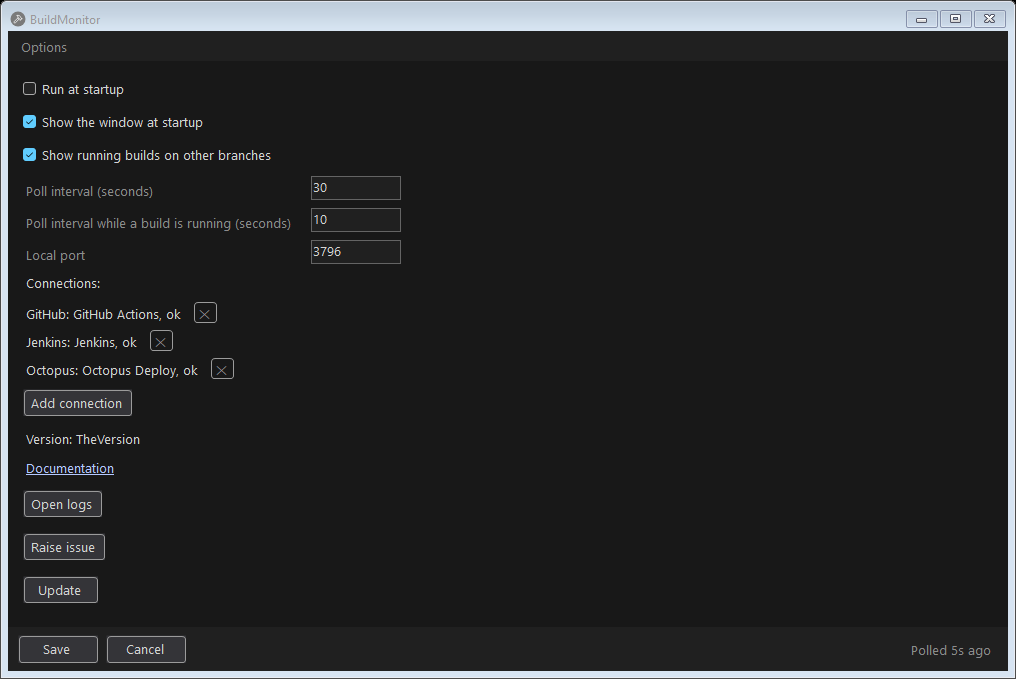
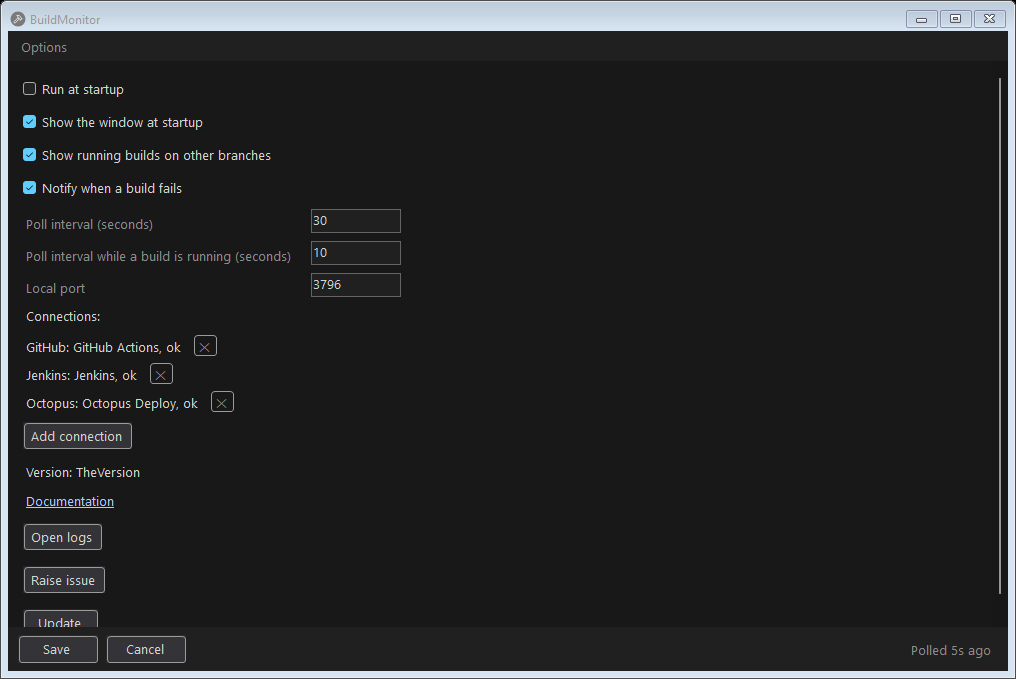
Failure notifications, OAuth callback port option, live provider tests, native screenshots in docs

Changed region(s): [[0.0, 0.2474, 0.3967, 0.9278]]

diff --git a/src/BuildMonitor.Tests/Providers/Live/LiveProviderTests.cs b/src/BuildMonitor.Tests/Providers/Live/LiveProviderTests.cs
@@ -1,0 +1,73 @@
+/// <summary>
+/// Runs a provider against its real service. Never part of a normal run: each test is explicit
+/// and reads its credential from the environment, so a developer with a token can check the
+/// wire format still matches without any of it reaching the repository.
+/// <para>
+/// Variables: <c>BUILDMONITOR_{PROVIDER}_TOKEN</c>, optionally <c>_SERVER</c>, <c>_USER</c>, and
+/// <c>_SCOPE_{ID}</c> for each scope field the provider declares. PROVIDER is the descriptor id
+/// upper cased with hyphens as underscores, so Azure DevOps reads
+/// <c>BUILDMONITOR_AZURE_DEVOPS_TOKEN</c>.
+/// </para>
+/// </summary>
+[Explicit]
+public class LiveProviderTests
+{
+    [Test]
+    [Arguments("appveyor")]
+    [Arguments("travis")]
+    [Arguments("jenkins")]
+    [Arguments("github")]
+    [Arguments("azure-devops")]
+    [Arguments("teamcity")]
+    [Arguments("gitlab")]
+    [Arguments("gocd")]
+    [Arguments("bitbucket")]
+    [Arguments("octopus")]
+    public async Task DiscoverAndFetch(string providerId)
+    {
+        var prefix = $"BUILDMONITOR_{providerId.ToUpperInvariant().Replace('-', '_')}_";
+        var token = Environment.GetEnvironmentVariable($"{prefix}TOKEN");
+        if (token is null)
+        {
+            Skip.Test($"{prefix}TOKEN is not set.");
+        }
+
+        var descriptor = ProviderDescriptors.Get(providerId);
+        var scope = ImmutableDictionary.CreateBuilder<string, string>();
+        foreach (var field in descriptor.Scopes)
+        {
+            var value = Environment.GetEnvironmentVariable($"{prefix}SCOPE_{field.Id.ToUpperInvariant()}");
+            if (value is not null)
+            {
+                scope[field.Id] = value;
+            }
+        }
+
+        var connection = new Connection
+        {
+            Id = providerId,
+            ProviderId = providerId,
+            Name = descriptor.Name,
+            Server = Environment.GetEnvironmentVariable($"{prefix}SERVER"),
+            User = Environment.GetEnvironmentVariable($"{prefix}USER"),
+            Scope = scope.ToImmutable()
+        };
+        using var handler = new HttpClientHandler();
+        var context = Providers.Context(connection, token, handler);
+        var provider = Providers.Get(providerId);
+
+        var test = await provider.Test(context, Cancel.None);
+        await Assert.That(test.Ok).IsTrue().Because(test.Message);
+
+        var pipelines = await provider.DiscoverPipelines(context, Cancel.None);
+        Console.WriteLine($"{pipelines.Count} pipelines");
+        var builds = await provider.FetchBuilds(context, pipelines, 3, Cancel.None);
+        Console.WriteLine($"{builds.Count} builds");
+        foreach (var build in builds.Take(10))
+        {
+            Console.WriteLine($"  {build.PipelineName} {build.Branch} {build.RunNumberLabel()} {build.Status} {build.BuildUrl}");
+        }
+
+        await Assert.That(pipelines.Count).IsGreaterThan(0);
+    }
+}

diff --git a/src/BuildMonitor.Tests/NotificationTests.cs b/src/BuildMonitor.Tests/NotificationTests.cs
@@ -1,0 +1,56 @@
+public class NotificationTests
+{
+    [Test]
+    public async Task ARunningBuildThatFailsIsAnnounced()
+    {
+        var state = Fixtures.WithBuilds();
+        var builds = Fixtures.GitHubBuilds();
+        var failed = builds.Select(_ => _.RunNumber == "1234" ? _ with { Status = BuildStatus.Failed, Finished = Fixtures.Now } : _).ToImmutableArray();
+        var next = MonitorSession.ApplyPoll(state, Fixtures.GitHub.Id, state.Connection(Fixtures.GitHub.Id)!.Pipelines, failed, Fixtures.Now);
+        await Assert.That(next.Notification).IsEqualTo(new Notification("test.yml failed", "VerifyTests/DiffEngine main #1234"));
+        await Verify(Fixtures.Render(next));
+    }
+
+    [Test]
+    public async Task AnAlreadyFailedBuildIsNotAnnouncedAgain()
+    {
+        var state = Fixtures.WithBuilds();
+        var next = MonitorSession.ApplyPoll(state, Fixtures.GitHub.Id, state.Connection(Fixtures.GitHub.Id)!.Pipelines, Fixtures.GitHubBuilds(), Fixtures.Now);
+        await Assert.That(next.Notification).IsNull();
+    }
+
+    [Test]
+    public async Task TheFirstPollIsSilent()
+    {
+        var state = Fixtures.Connected();
+        var next = MonitorSession.ApplyPoll(state, Fixtures.GitHub.Id, [], Fixtures.GitHubBuilds(), Fixtures.Now);
+        await Assert.That(next.Notification).IsNull();
+    }
+
+    [Test]
+    public async Task SeveralFailuresAreSummarised()
+    {
+        var state = Fixtures.WithBuilds();
+        var failed = Fixtures.GitHubBuilds().Select(_ => _ with { Status = BuildStatus.Failed }).ToImmutableArray();
+        var next = MonitorSession.ApplyPoll(state, Fixtures.GitHub.Id, [], failed, Fixtures.Now);
+        await Assert.That(next.Notification!.Title).IsEqualTo("3 builds failed");
+        await Assert.That(next.Notification.Message).IsEqualTo("test.yml, docs.yml");
+    }
+
+    [Test]
+    public async Task CanBeSwitchedOff()
+    {
+        var state = Fixtures.WithBuilds();
+        state = MonitorSession.ApplySettings(state, state.Settings with { NotifyOnFailure = false });
+        var failed = Fixtures.GitHubBuilds().Select(_ => _ with { Status = BuildStatus.Failed }).ToImmutableArray();
+        var next = MonitorSession.ApplyPoll(state, Fixtures.GitHub.Id, [], failed, Fixtures.Now);
+        await Assert.That(next.Notification).IsNull();
+    }
+
+    [Test]
+    public async Task ClearedAfterShowing()
+    {
+        var state = Fixtures.WithBuilds() with { Notification = new("x", "y") };
+        await Assert.That(MonitorSession.ClearNotification(state).Notification).IsNull();
+    }
+}

diff --git a/src/BuildMonitor.Core/Session/ScreenBuilder.cs b/src/BuildMonitor.Core/Session/ScreenBuilder.cs
@@ -59,7 +59,8 @@ static class ScreenBuilder
             tray,
             state.Columns,
             state.Rows,
-            menu);
+            menu,
+            state.Notification);
     }
 
     static string Header(SessionState state, int pipelines, int failing, int running)
@@ -254,7 +255,8 @@ static class ScreenBuilder
             status,
             tray,
             state.Columns,
-            state.Rows);
+            state.Rows,
+            Notification: state.Notification);
     }
 
     static FormPage OptionsForm(SessionState state)
@@ -265,6 +267,7 @@ static class ScreenBuilder
             new(FormFields.RunAtStartup, FieldKind.Checkbox, "Run at startup", form.Value(FormFields.RunAtStartup)),
             new(FormFields.ShowWindowAtStart, FieldKind.Checkbox, "Show the window at startup", form.Value(FormFields.ShowWindowAtStart)),
             new(FormFields.ShowOtherBranches, FieldKind.Checkbox, "Show running builds on other branches", form.Value(FormFields.ShowOtherBranches)),
+            new(FormFields.NotifyOnFailure, FieldKind.Checkbox, "Notify when a build fails", form.Value(FormFields.NotifyOnFailure)),
             new(FormFields.PollInterval, FieldKind.Number, "Poll interval (seconds)", form.Value(FormFields.PollInterval)),
             new(FormFields.RunningPollInterval, FieldKind.Number, "Poll interval while a build is running (seconds)", form.Value(FormFields.RunningPollInterval)),
             new(FormFields.Port, FieldKind.Number, "Local port", form.Value(FormFields.Port), Hint: "Used by the launcher and the MCP server. Takes effect after a restart."),
@@ -363,6 +366,11 @@ static class ScreenBuilder
         else if (descriptor.CustomClientId)
         {
             fields.Add(new(FormFields.ClientId, FieldKind.Text, "OAuth application id (optional)", form.Value(FormFields.ClientId), Hint: "Only for a self hosted server with its own application"));
+        }
+
+        if (method == AuthMethod.Browser)
+        {
+            fields.Add(new(FormFields.CallbackPort, FieldKind.Number, "Callback port (optional)", form.Value(FormFields.CallbackPort), Hint: "Only when the application was registered with a fixed redirect port"));
         }
 
         if (descriptor.Notes is not null)

diff --git a/src/BuildMonitor.Core/Session/MonitorSession.cs b/src/BuildMonitor.Core/Session/MonitorSession.cs
@@ -183,6 +183,7 @@ static class MonitorSession
         values[FormFields.RunAtStartup] = Flag(settings.RunAtStartup);
         values[FormFields.ShowWindowAtStart] = Flag(settings.ShowWindowAtStart);
         values[FormFields.ShowOtherBranches] = Flag(settings.ShowOtherBranches);
+        values[FormFields.NotifyOnFailure] = Flag(settings.NotifyOnFailure);
         values[FormFields.PollInterval] = settings.PollIntervalSeconds.ToString();
         values[FormFields.RunningPollInterval] = settings.RunningPollIntervalSeconds.ToString();
         values[FormFields.Port] = settings.Port.ToString();
@@ -220,6 +221,7 @@ static class MonitorSession
         values[FormFields.User] = existing?.User ?? "";
         values[FormFields.Token] = "";
         values[FormFields.ClientId] = existing?.ClientId ?? "";
+        values[FormFields.CallbackPort] = existing?.CallbackPort?.ToString() ?? "";
         foreach (var scope in descriptor.Scopes)
         {
             values[FormFields.Scope(scope.Id)] = existing?.ScopeValue(scope.Id) ?? "";
@@ -471,15 +473,26 @@ static class MonitorSession
             state,
             connectionId,
             _ => _ with { Health = ConnectionHealth.Ok, Error = null, RetryAfter = null, LastPolled = now, Pipelines = pipelines });
+        var previous = state.Builds.Where(_ => _.ConnectionId == connectionId).ToImmutableArray();
+        var notification = state.Notification;
+        if (state.Settings.NotifyOnFailure)
+        {
+            notification = FailureDetector.Describe(FailureDetector.NewFailures(previous, builds)) ?? notification;
+        }
+
         return Clamp(next with
         {
             Builds =
             [
                 ..next.Builds.Where(_ => _.ConnectionId != connectionId),
                 ..builds
-            ]
+            ],
+            Notification = notification
         });
     }
+
+    public static SessionState ClearNotification(SessionState state) =>
+        state with { Notification = null };
 
     public static SessionState ApplyMedians(SessionState state, ImmutableDictionary<string, TimeSpan> medians) =>
         state with { Medians = medians };

diff --git a/src/BuildMonitor.Core/Builds/FailureDetector.cs b/src/BuildMonitor.Core/Builds/FailureDetector.cs
@@ -1,0 +1,43 @@
+/// <summary>
+/// Which builds in a poll are failures the user has not been told about. A failure that was
+/// already failed last poll is not news, and neither is anything on a connection's first poll:
+/// the app starting is not the moment to announce every red pipeline.
+/// </summary>
+static class FailureDetector
+{
+    public static ImmutableArray<Build> NewFailures(ImmutableArray<Build> previous, ImmutableArray<Build> next)
+    {
+        if (previous.Length == 0)
+        {
+            return [];
+        }
+
+        var known = previous
+            .Where(_ => _.Status == BuildStatus.Failed)
+            .Select(_ => (_.Key, _.RunNumber))
+            .ToHashSet();
+        return
+        [
+            ..next.Where(_ => _.Status == BuildStatus.Failed && !known.Contains((_.Key, _.RunNumber)))
+        ];
+    }
+
+    public static Notification? Describe(ImmutableArray<Build> failures)
+    {
+        if (failures.Length == 0)
+        {
+            return null;
+        }
+
+        if (failures.Length == 1)
+        {
+            var build = failures[0];
+            var branch = build.Branch is null ? "" : $" {build.Branch}";
+            return new($"{build.PipelineName} failed", $"{build.RepoName}{branch} {build.RunNumberLabel()}".Trim());
+        }
+
+        return new(
+            $"{failures.Length} builds failed",
+            string.Join(", ", failures.Select(_ => _.PipelineName).Distinct()));
+    }
+}

diff --git a/src/BuildMonitor.Core/Session/ConnectionDraft.cs b/src/BuildMonitor.Core/Session/ConnectionDraft.cs
@@ -31,6 +31,7 @@ static class ConnectionDraft
         var server = form.Value(FormFields.Server).Trim().TrimEnd('/');
         var user = form.Value(FormFields.User).Trim();
         var clientId = form.Value(FormFields.ClientId).Trim();
+        var callbackPort = int.TryParse(form.Value(FormFields.CallbackPort).Trim(), out var parsedPort) ? parsedPort : (int?) null;
         return new()
         {
             Id = form.EditingConnectionId ?? form.DraftConnectionId ?? Guid.NewGuid().ToString("N"),
@@ -40,7 +41,8 @@ static class ConnectionDraft
             Scope = scope.ToImmutable(),
             Auth = Method(form),
             User = user.Length == 0 ? null : user,
-            ClientId = clientId.Length == 0 ? null : clientId
+            ClientId = clientId.Length == 0 ? null : clientId,
+            CallbackPort = callbackPort
         };
     }
 
@@ -86,6 +88,14 @@ static class ConnectionDraft
         }
 
         var method = Method(form);
+        var callbackPort = form.Value(FormFields.CallbackPort).Trim();
+        if (method == AuthMethod.Browser &&
+            callbackPort.Length > 0 &&
+            (!int.TryParse(callbackPort, out var port) || port is < 1024 or > 65535))
+        {
+            return "The callback port must be between 1024 and 65535.";
+        }
+
         if (method == AuthMethod.Token)
         {
             if (Token(form) is null &&

diff --git a/src/BuildMonitor.Tests/ConnectionDraftTests.cs b/src/BuildMonitor.Tests/ConnectionDraftTests.cs
@@ -40,6 +40,21 @@ public class ConnectionDraftTests
     }
 
     [Test]
+    public async Task CallbackPortIsOptionalAndBounded()
+    {
+        var state = MonitorSession.FieldChanged(Fixtures.ConnectionNew(), FormFields.Provider, "GitLab CI");
+        state = MonitorSession.FieldChanged(state, FormFields.Auth, nameof(AuthMethod.Browser));
+        await Assert.That(ConnectionDraft.Build(state.Form!).CallbackPort).IsNull();
+
+        state = MonitorSession.FieldChanged(state, FormFields.CallbackPort, "80");
+        await Assert.That(ConnectionDraft.Validate(state.Form!)).IsEqualTo("The callback port must be between 1024 and 65535.");
+
+        state = MonitorSession.FieldChanged(state, FormFields.CallbackPort, "8420");
+        await Assert.That(ConnectionDraft.Build(state.Form!).CallbackPort).IsEqualTo(8420);
+        await Assert.That(ConnectionDraft.Validate(state.Form!)).IsEqualTo("Sign in first, or switch to a token.");
+    }
+
+    [Test]
     public async Task EditingKeepsTheStoredToken()
     {
         var state = Fixtures.ConnectionEdit();

diff --git a/src/BuildMonitor.Core/Session/FormFields.cs b/src/BuildMonitor.Core/Session/FormFields.cs
@@ -8,6 +8,7 @@ static class FormFields
     public const string RunAtStartup = "runAtStartup";
     public const string ShowWindowAtStart = "showWindowAtStart";
     public const string ShowOtherBranches = "showOtherBranches";
+    public const string NotifyOnFailure = "notifyOnFailure";
     public const string PollInterval = "pollInterval";
     public const string RunningPollInterval = "runningPollInterval";
     public const string Port = "port";
@@ -37,6 +38,7 @@ static class FormFields
     public const string Token = "token";
     public const string TokenHelp = "tokenHelp";
     public const string ClientId = "clientId";
+    public const string CallbackPort = "callbackPort";
     public const string Notes = "notes";
     public const string Message = "message";
 

diff --git a/src/BuildMonitor.Core/Session/MonitorProgram.cs b/src/BuildMonitor.Core/Session/MonitorProgram.cs
@@ -156,6 +156,20 @@ static class MonitorProgram
 
             var screen = ScreenBuilder.Build(state, DateTimeOffset.UtcNow);
             tray?.Apply(screen.Tray);
+            if (screen.Notification is { } notification)
+            {
+                // Cleared before the tray is asked, so a tray that throws does not pop it every frame.
+                host.Mutate(MonitorSession.ClearNotification);
+                try
+                {
+                    tray?.Notify(notification);
+                }
+                catch (Exception exception)
+                {
+                    Log.Warning(exception, "Notification failed");
+                }
+            }
+
             if (!window.Present(screen))
             {
                 return;

diff --git a/src/BuildMonitor.Native/Native/NativeTray.cs b/src/BuildMonitor.Native/Native/NativeTray.cs
@@ -68,6 +68,19 @@ sealed unsafe class NativeTray : ITray
     {
     }
 
+    /// <summary>
+    /// Through osascript rather than UNUserNotificationCenter: that API refuses a process that is
+    /// not an app bundle, and this tool is a bare executable.
+    /// </summary>
+    public void Notify(Notification notification) =>
+        ProcessRunner.Run(
+            "osascript",
+            ["-e", $"display notification \"{Escape(notification.Message)}\" with title \"{Escape(notification.Title)}\""],
+            timeout: TimeSpan.FromSeconds(5));
+
+    static string Escape(string text) =>
+        text.Replace("\\", "\\\\").Replace("\"", "\\\"");
+
     public TrayInput Poll() =>
         new();
 

diff --git a/src/BuildMonitor.Native/Linux/SniTray.cs b/src/BuildMonitor.Native/Linux/SniTray.cs
@@ -198,6 +198,16 @@ sealed class SniTray : ITray
         }
     }
 
+    /// <summary>
+    /// notify-send speaks org.freedesktop.Notifications for us and is installed wherever a
+    /// notification daemon is. Arguments go as a list, so a title with a quote in it is safe.
+    /// </summary>
+    public void Notify(Notification notification) =>
+        ProcessRunner.Run(
+            "notify-send",
+            ["--app-name=BuildMonitor", "--urgency=normal", notification.Title, notification.Message],
+            timeout: TimeSpan.FromSeconds(5));
+
     public void IconClicked() =>
         events.Enqueue(new(IconClicked: true));
 

diff --git a/src/BuildMonitor.Core/Settings/Connection.cs b/src/BuildMonitor.Core/Settings/Connection.cs
@@ -14,6 +14,10 @@ record Connection
     // A user supplied OAuth client id, for a self hosted instance with its own application
     // registration. Null means the id compiled into OAuthClients.
     public string? ClientId { get; init; }
+    // The loopback port the browser sign in listens on. Null picks a free one, which every
+    // hosted service accepts; a self hosted server whose application was registered with a
+    // fixed redirect port needs that port here.
+    public int? CallbackPort { get; init; }
 
     public string ScopeValue(string id) =>
         Scope.TryGetValue(id, out var value) ? value : "";
